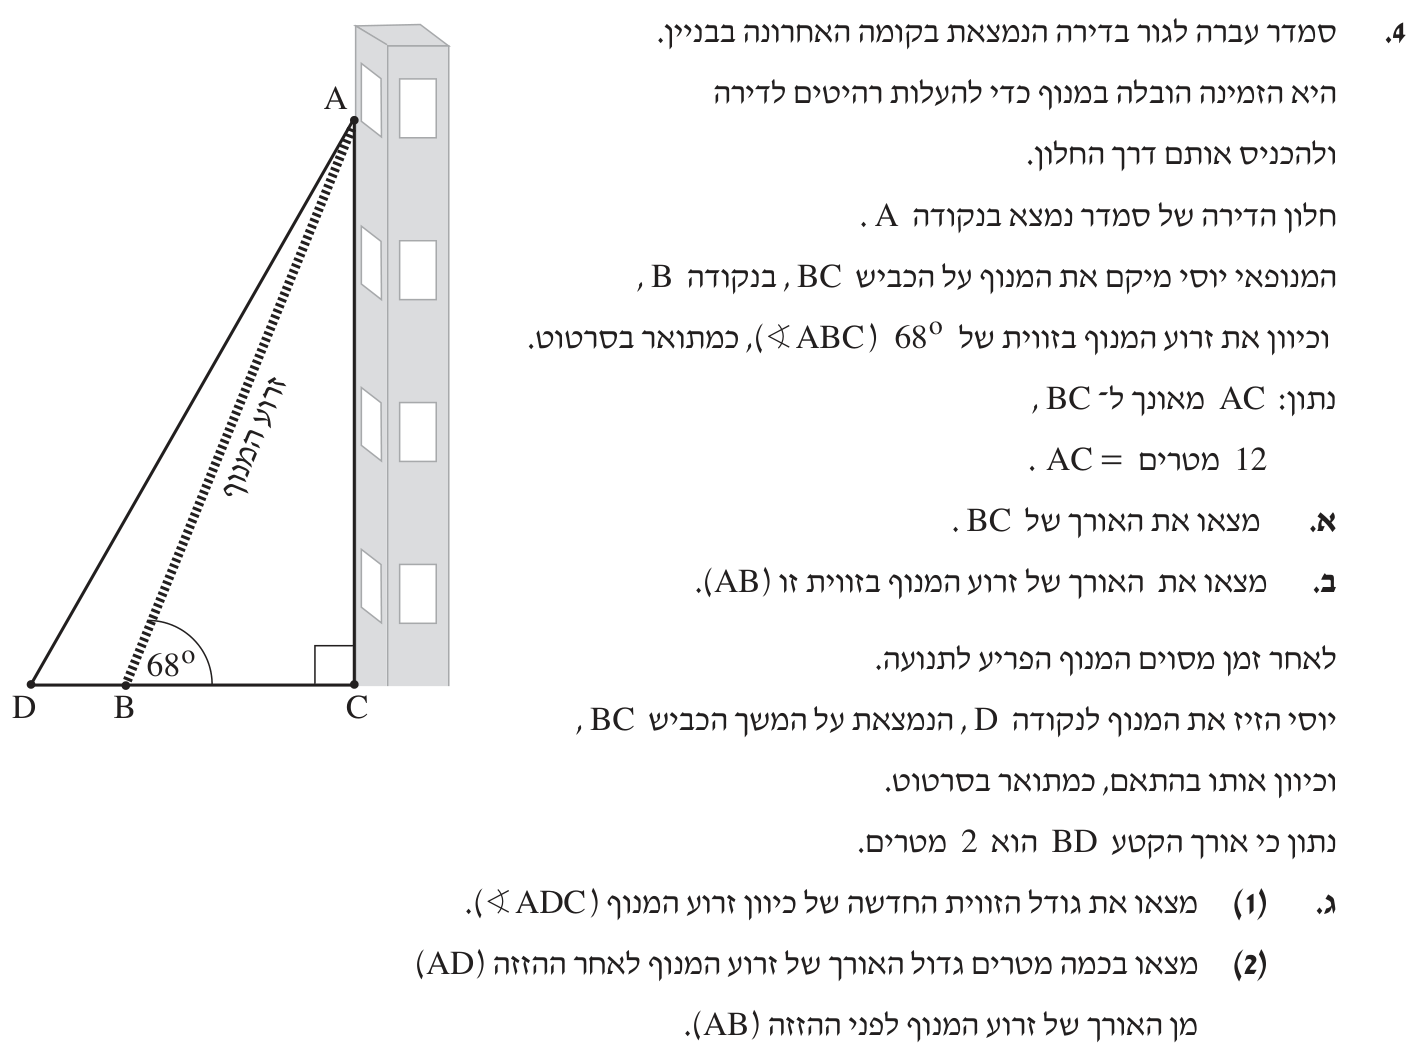
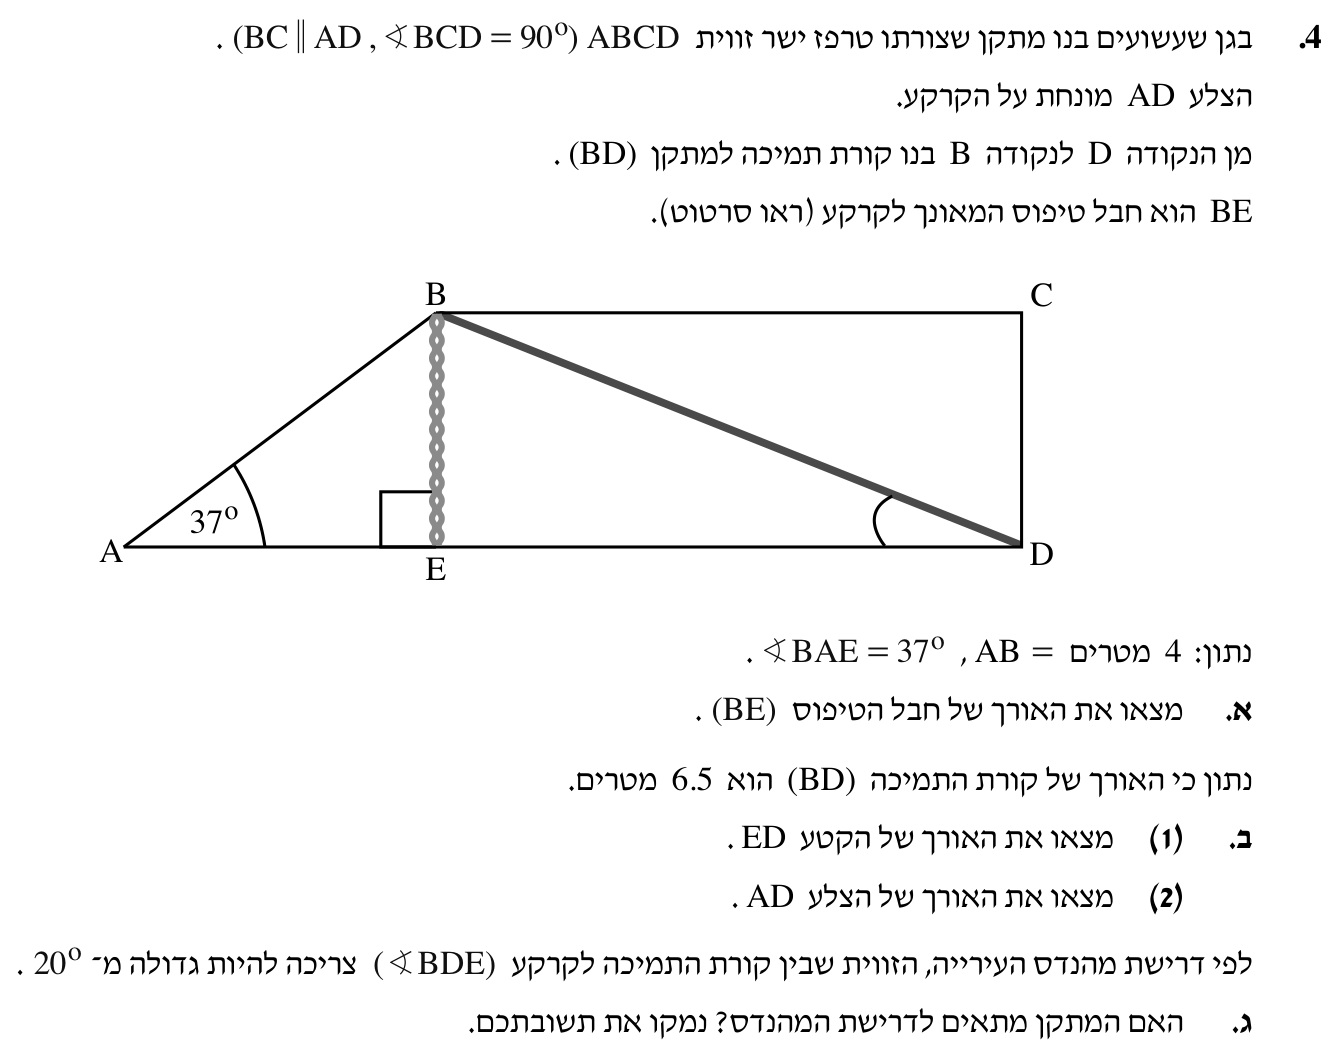
Trig: drop the booklet's duplicated question; geometry: door is winter 25

diff --git a/trig/index.html b/trig/index.html
@@ -234,7 +234,7 @@ document.querySelector('header.top p').textContent = CONFIG.subtitle;
 
 const SECTIONS = [
   {name:'בגרות 2026', from:1, to:3},
-  {name:'בגרות 2025', from:4, to:6},
+  {name:'בגרות 2025', from:4, to:5},
 ];
 
 function signTable(zeros, tests, vals){
@@ -326,32 +326,7 @@ const Q = [
        E('שוכחים שהבסיס העליון AB שווה ל-CE, ומחשבים רק משולש.','S = [86.22 · 58.16/2]','S = [(33.78 + 120) · 58.16/2]'),
        E('בסעיף ד משתמשים ב-CD כולו כניצב. הניצב שליד הזווית C במשולש ACE הוא CE.','tan ∠ACE = [58.16/120]','tan ∠ACE = [58.16/33.78]')]},
 
-{n:4, img:'q4', title:'קיץ 25, מועד א – מתקן בגן שעשועים',
- text:'בגן שעשועים בנו מתקן שצורתו טרפז ישר זווית ABCD (BC ∥ AD, זווית BCD = 90°). הצלע AD מונחת על הקרקע. מן הנקודה B לנקודה D בנו קורת תמיכה למתקן (BD). BE הוא חבל טיפוס המאונך לקרקע (ראו סרטוט). נתון: AB = 4 מטרים, זווית BAE = 37°. א. מצאו את האורך של חבל הטיפוס (BE). נתון כי האורך של קורת התמיכה (BD) הוא 6.5 מטרים. ב. (1) מצאו את האורך של הקטע ED. (2) מצאו את האורך של הצלע AD. לפי דרישת מהנדס העירייה, הזווית שבין קורת התמיכה לקרקע (זווית BDE) צריכה להיות גדולה מ-20°. ג. האם המתקן מתאים לדרישת המהנדס? נמקו את תשובתכם. (בסרטוט: A, E, D על הקרקע משמאל לימין; B מעל E, C מעל D; BC הצלע העליונה.)',
- hint:['במשולש ABE הזווית E ישרה. מסתכלים מהזווית של 37 מעלות: איזו צלע היא היתר, ואיזו צלע מול הזווית?'],
- steps:[
-  S('א','BE מאונך לקרקע, לכן במשולש ABE הזווית E ישרה. מסתכלים מהזווית A (37 מעלות): AB מול הזווית הישרה – יתר. BE מול הזווית A – ניצב מול. AE צמוד לזווית A – ניצב ליד.','יתר:|AB = 4','ניצב מול:|BE = ?','ניצב ליד:|AE = ?'),
-  S('א','יודעים יתר ומחפשים ניצב מול – הפונקציה היא sin.','sin 37° = [BE/{4}]'),
-  S('א','כופלים את שני האגפים ב-4 ומחשבים (מחשבון במצב DEG).','BE = {4 ·} sin 37°','BE = 4 · {0.6018} ≈ 2.41'),
-  S('ב(1)','עוברים למשולש BED. גם בו הזווית E ישרה. BD מול הזווית הישרה – יתר. BE ו-ED הם הניצבים. יודעים שתי צלעות – משפט פיתגורס.','ED² + BE² = BD²','ED² + {2.41²} = {6.5²}'),
-  S('ב(1)','מחשבים את הריבועים.','ED² + {5.81} = {42.25}'),
-  S('ב(1)','מעבירים 5.81 אגף (מחליף סימן).','ED² = 42.25 {− 5.81}','ED² = 36.44'),
-  S('ב(1)','מוציאים שורש. אורך תמיד חיובי.','ED = √36.44 ≈ 6.04'),
-  S('ב(2)','AD מורכב מ-AE ועוד ED. מוצאים את AE: במשולש ABE הוא ניצב ליד הזווית A, ולכן cos.','cos 37° = [AE/4]','AE = {4 ·} cos 37°','AE = 4 · {0.7986} ≈ 3.19'),
-  S('ב(2)','מחברים.','AD = AE + ED','AD = {3.19} + {6.04} ≈ 9.23'),
-  S('ב(2)','בדיקה בפיתגורס במשולש ABE.','2.41² + 3.19² = 5.81 + 10.18 = 15.99','4² = 16  ≈ ✓'),
-  S('ג','במשולש BED מסתכלים מהזווית D: BE מולה – ניצב מול. BD הוא היתר. מול ויתר – sin. מחלקים עם הערך המלא של BE מהמחשבון (2.407...).','sin ∠BDE = [BE/BD]','sin ∠BDE = [{2.41}/{6.5}] ≈ 0.3704'),
-  S('ג','מחפשים זווית – לוחצים sin⁻¹. (עם הערך המלא של BE יוצא 21.74; עם 2.41 יוצא 21.76.)','∠BDE = {sin⁻¹}(0.3704)','∠BDE ≈ 21.74°'),
-  S('ג','משווים לדרישה: הזווית צריכה להיות גדולה מ-20 מעלות.','21.74° > 20° ✓','!המתקן מתאים לדרישת המהנדס'),
- ],
- final:[['א.','BE ≈ 2.41 מ׳'],['ב.','(1)  ED ≈ 6.04 מ׳'],['','(2)  AD ≈ 9.23 מ׳'],['ג.','!כן: הזווית BDE ≈ 21.74° גדולה מ-20°']],
- errs:[E('משתמשים בזווית 37 מעלות במשולש BED. הזווית 37 נמצאת ב-A, במשולש אחר. ב-BED יודעים שתי צלעות – פיתגורס.','ED = 6.5 · cos 37°','ED² = 6.5² − 2.41²'),
-       E('מחברים במקום לחסר. מחפשים ניצב, לכן מחסרים מריבוע היתר.','ED² = 6.5² + 2.41²','ED² = 6.5² − 2.41²'),
-       E('בסעיף ב(2) עונים רק ED. הצלע AD מתחילה ב-A, לכן צריך גם את AE.','AD ≈ 6.04','AD = 3.19 + 6.04 ≈ 9.23'),
-       E('בסעיף ג משתמשים ב-tan עם BD. BD הוא יתר, לכן sin.','tan ∠BDE = [2.41/6.5]','sin ∠BDE = [2.41/6.5]'),
-       E('מחשבים את הזווית ולא עונים על השאלה. צריך לכתוב במפורש: 21.74 גדול מ-20, ולכן המתקן מתאים.')]},
-
-{n:5, img:'q5', title:'קיץ 25, מועד ב – מנוף לדירה',
+{n:4, img:'q4', title:'קיץ 25, מועד ב – מנוף לדירה',
  text:'סמדר עברה לגור בדירה הנמצאת בקומה האחרונה בבניין. היא הזמינה הובלה במנוף כדי להעלות רהיטים לדירה ולהכניס אותם דרך החלון. חלון הדירה של סמדר נמצא בנקודה A. המנופאי יוסי מיקם את המנוף על הכביש BC, בנקודה B, וכיוון את זרוע המנוף בזווית של 68° (זווית ABC), כמתואר בסרטוט. נתון: AC מאונך ל-BC, AC = 12 מטרים. א. מצאו את האורך של BC. ב. מצאו את האורך של זרוע המנוף בזווית זו (AB). לאחר זמן מסוים המנוף הפריע לתנועה. יוסי הזיז את המנוף לנקודה D, הנמצאת על המשך הכביש BC, וכיוון אותו בהתאם, כמתואר בסרטוט. נתון כי אורך הקטע BD הוא 2 מטרים. ג. (1) מצאו את גודל הזווית החדשה של כיוון זרוע המנוף (זווית ADC). (2) מצאו בכמה מטרים גדול האורך של זרוע המנוף לאחר ההזזה (AD) מן האורך של זרוע המנוף לפני ההזזה (AB). (בסרטוט: D, B, C על הכביש משמאל לימין; C בבסיס הבניין, A מעל C בקיר הבניין; AB ו-AD זרועות המנוף.)',
  hint:['במשולש ABC הזווית C ישרה. מסתכלים מהזווית של 68 מעלות: איזו צלע מולה, ואיזו צלע צמודה אליה?'],
  steps:[
@@ -377,7 +352,7 @@ const Q = [
        E('בסעיף ג(2) עונים AD במקום ההפרש. שואלים בכמה מטרים גדלה הזרוע.','≈ 13.82','13.82 − 12.94 ≈ 0.87'),
        E('המחשבון במצב RAD. ב-tan של 68 ברדיאנים יוצא מספר שלילי – סימן שהמחשבון לא במעלות (DEG).','tan 68 ≈ −2.04','tan 68° ≈ 2.475')]},
 
-{n:6, img:'q6', title:'חורף 25 – מתקן בגן שעשועים',
+{n:5, img:'q5', title:'חורף 25 – מתקן בגן שעשועים',
  text:'בגן שעשועים בנו מתקן שצורתו טרפז ישר זווית ABCD (BC ∥ AD, זווית BCD = 90°). הצלע AD מונחת על הקרקע. מן הנקודה B לנקודה D בנו קורת תמיכה למתקן (BD). BE הוא חבל טיפוס המאונך לקרקע (ראו סרטוט). נתון: AB = 4 מטרים, זווית BAE = 37°. א. מצאו את האורך של חבל הטיפוס (BE). נתון כי האורך של קורת התמיכה (BD) הוא 6.5 מטרים. ב. (1) מצאו את האורך של הקטע ED. (2) מצאו את האורך של הצלע AD. לפי דרישת מהנדס העירייה, הזווית שבין קורת התמיכה לקרקע (זווית BDE) צריכה להיות גדולה מ-20°. ג. האם המתקן מתאים לדרישת המהנדס? נמקו את תשובתכם. (בסרטוט: A, E, D על הקרקע משמאל לימין; B מעל E, C מעל D; BC הצלע העליונה.)',
  hint:['במשולש ABE הזווית E ישרה. מסתכלים מהזווית של 37 מעלות: איזו צלע היא היתר, ואיזו צלע מול הזווית?'],
  steps:[

diff --git a/geometry/index.html b/geometry/index.html
@@ -320,7 +320,7 @@ const Q = [
        E('בסעיף ב(2) עונים רק CE. הגשר כולו הוא BC ועוד CE.','BE = 39','BE = 62.4 + 39 = 101.4'),
        E('סופרים רק שני מיתרים. יש ארבעה: AB, AC, DC, DE.','(52 + 32.5) · 540 = 45,630','(52 + 52 + 32.5 + 32.5) · 540 = 91,260')]},
 
-{n:4, img:'q4', title:'קיץ 25, מועד א – דלת',
+{n:4, img:'q4', title:'חורף 25 – דלת',
  text:'נתונה דלת שצורתה מלבן ABCD. הנקודה E נמצאת על הצלע AD, והנקודה G נמצאת על הצלע DC. צבעו את שני המשולשים ABE ו-DEG באפור. את החלק שנשאר צבעו בלבן. נתון: הזווית ABE שווה לזווית DEG. א. הסבירו מדוע המשולשים DEG ו-ABE דומים זה לזה. נתון: AB = 140 ס"מ, DE = 112 ס"מ. ב. מצאו את יחס הדמיון בין המשולשים DEG ו-ABE. נתון: AD = 217 ס"מ. ג. מצאו את אורך הקטע DG. ד. (1) חשבו את השטח הכולל שצבעו באפור. (2) חשבו את השטח שצבעו בלבן (המרובע BEGC).',
  hint:['במלבן כל הזוויות ישרות. אילו שתי זוויות שוות יש בשני המשולשים?'],
  steps:[
